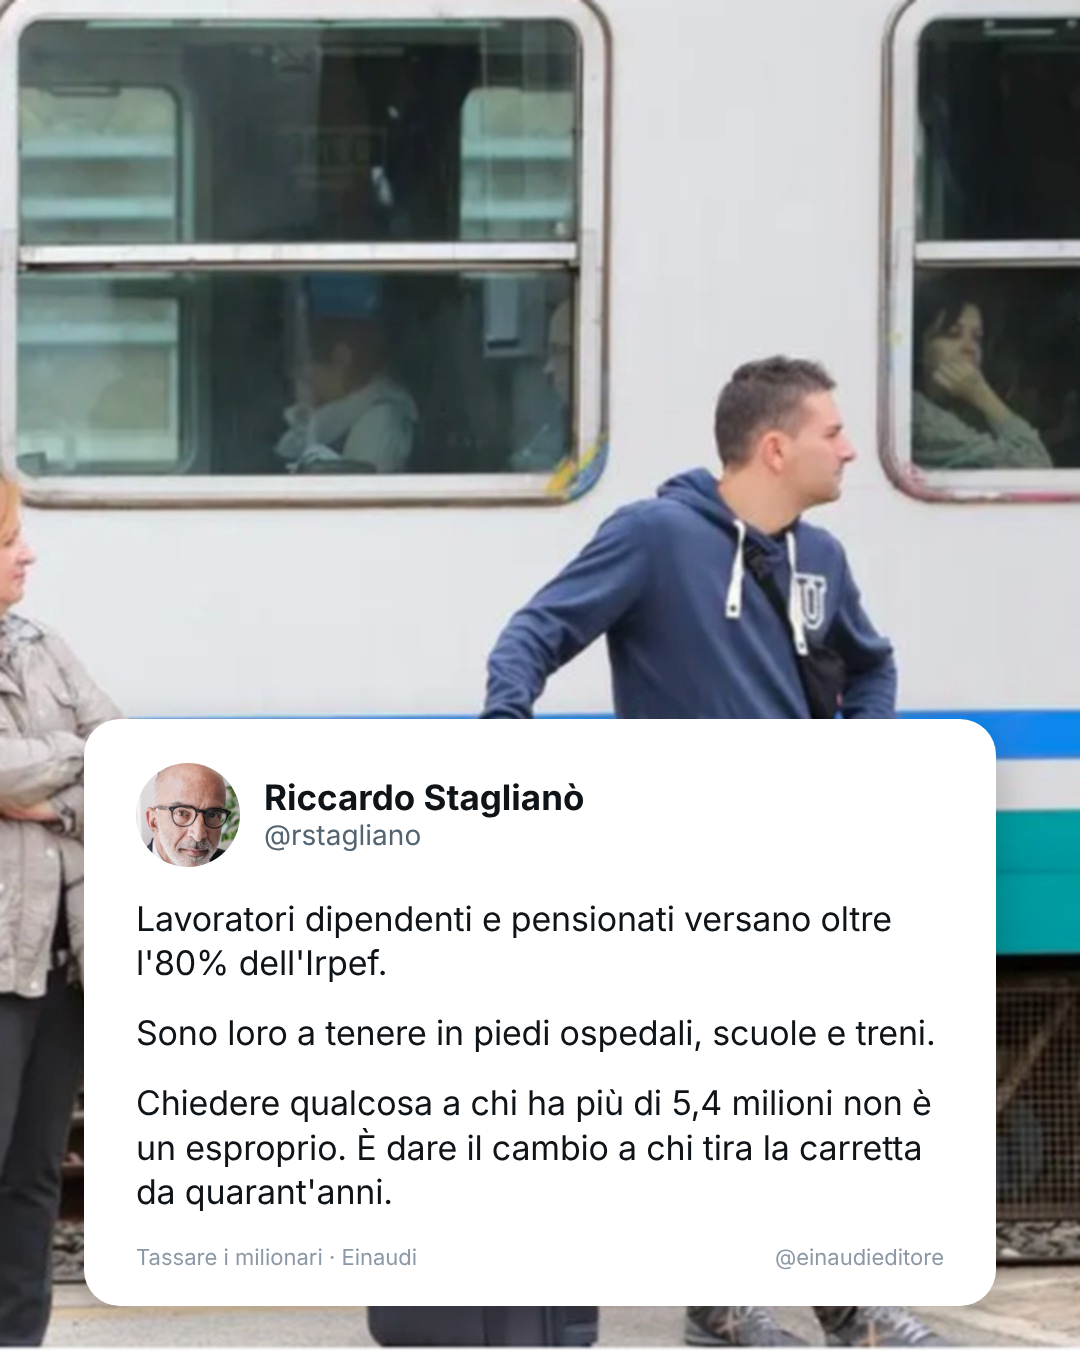
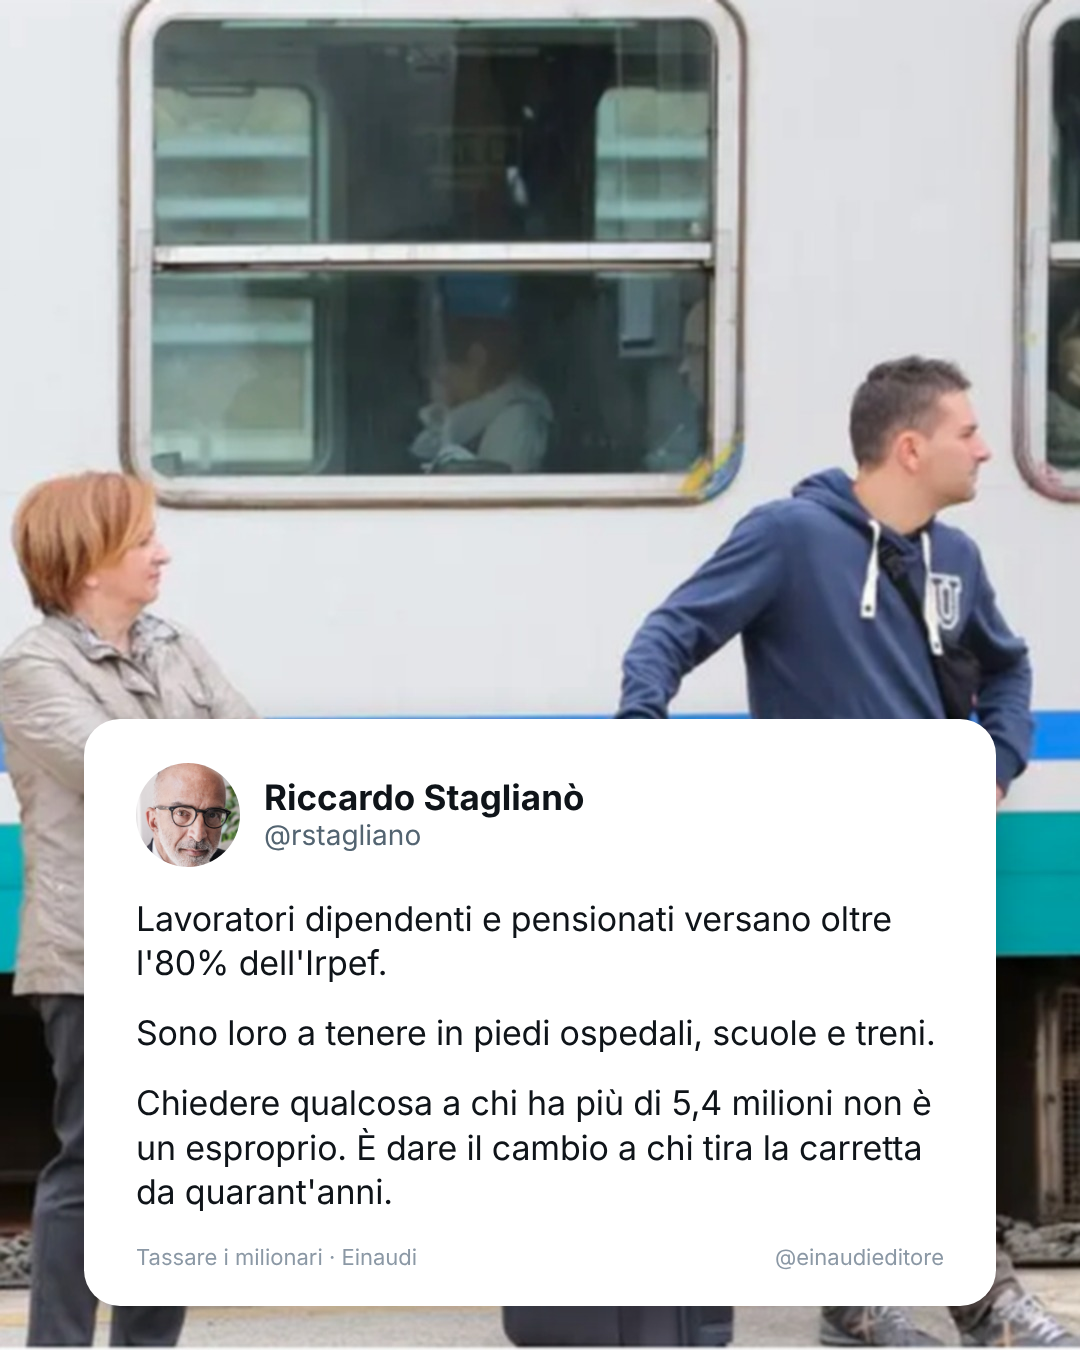
Pendolari: inquadratura
Claude-Session: https://claude.ai/code/session_01Kd5zThyevdq6QiWcEE8hm1

diff --git a/dicembre/src/foto.py b/dicembre/src/foto.py
@@ -25,7 +25,7 @@ ITEMS = [
     ("d04_lap_lakoff", "lakoff.jpg", 0.5, 0.0, "bottom_low", 0, 34, ""),
     ("d07_lap_limitarianismo", "montecarlo.jpg", 0.6, 0.0, "top_high", 0, 34, ""),
     ("d12_lap_shafir", "cancello.jpg", 0.5, 0.0, "top_high", 0, 34, ""),
-    ("d14_lap_ottanta", "pendolari.png", 0.95, 0.0, "bottom_low", 0, 34, ""),
+    ("d14_lap_ottanta", "pendolari.png", 0.85, 0.0, "bottom_low", 0, 34, ""),
     ("d15_lap_sperate", "grattaevinci.png", 0.5, 0.0, "top_high", 0, 38, ""),
     ("d17_lap_babbo_natale", "babbonatale.png", 0.5, 0.0, "bottom_low", 0, 36, ""),
     ("d05_lap_thiel", "thiel.jpg", 0.5, 0.0, "bottom_low", 260, 32, ""),
